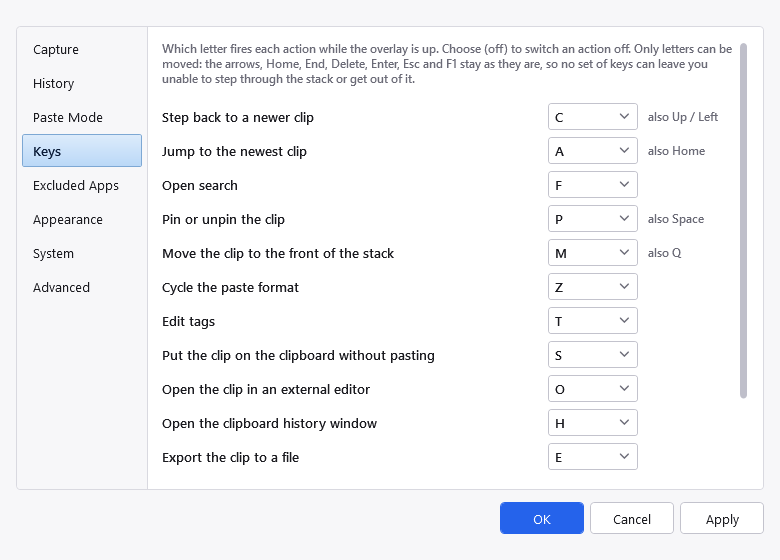
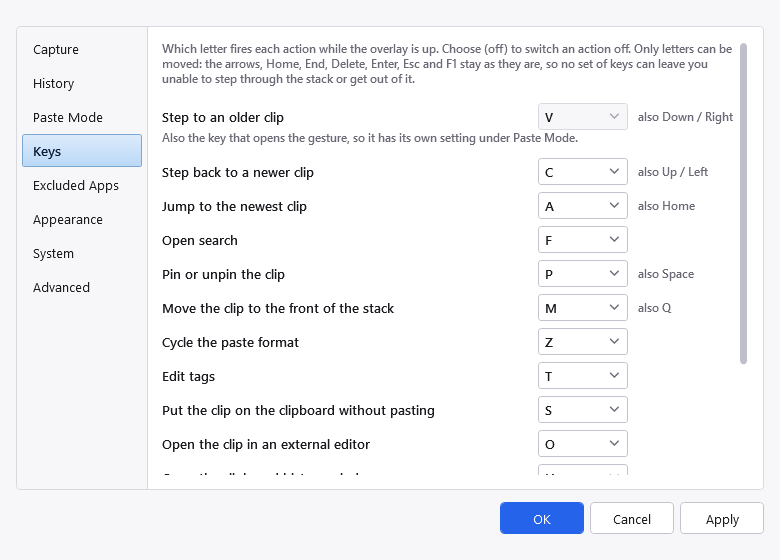
Show the trigger on the Keys tab too, read-only
The Keys tab listed every paste-mode letter except the one the whole product
is built around, which reads as an omission rather than as the deliberate
exclusion it was. V now heads the list, greyed out, with "also Down / Right"
beside it and a line saying where it is actually set.

Still not editable here, and still not part of PasteKeyMap: the trigger is
the one key that OPENS a session rather than acting inside one, so it has its
own setting under Paste Mode - which is itself disabled in this release. Same
reasoning that keeps that combo visible-but-disabled rather than hidden: it
shows what the gesture is, which is worth reading even when it cannot be
changed.

Row building moved into AddPasteKeyRow, shared by the read-only row and the
configurable ones, so the two cannot drift apart visually - a row that looked
different would imply it behaved differently in some way beyond being fixed.

The read-only copy is written in ShowValues rather than left to the trigger
combo's SelectionChanged, so a Reset moves both; SelectionChanged updates it
as well, which costs nothing today and stops the two disagreeing the moment
the trigger becomes editable.

668 tests, 0 warnings, UI smoke clean, screenshot and .chm rebuilt.

Changed region(s): [[0.1846, 0.1821, 0.9538, 0.85], [0.9231, 0.6375, 0.9846, 0.6982]]

diff --git a/docs/help/settings.html b/docs/help/settings.html
@@ -99,6 +99,11 @@ case or Unindent.</td></tr>
 take the letter that opens paste mode &mdash; both are refused when you press OK, with the clash named, rather
 than being resolved for you. Swapping two letters over is fine: the check runs once at the end, not as you type.</p>
 
+<p>The first row, <b>Step to an older clip</b>, is greyed out. That key both opens the gesture and steps through
+it, so it has its own setting under <b>Paste Mode</b> &mdash; and that one is not adjustable in this release. It
+is listed here anyway because a page naming every paste-mode key while omitting the most important one reads as
+an omission.</p>
+
 <p><b>Only letters can be moved.</b> The arrows, <code>Home</code>, <code>End</code>, <code>Delete</code>,
 <code>Enter</code>, <code>Esc</code> and <code>F1</code> stay where they are. That is a safety property rather
 than an omission: no set of keys you choose can leave you unable to step through the stack, and

diff --git a/src/PasteJump.App/Views/SettingsWindow.xaml.cs b/src/PasteJump.App/Views/SettingsWindow.xaml.cs
@@ -307,6 +307,10 @@ public partial class SettingsWindow : Window
 
         TriggerKeyCombo.SelectedItem = TriggerKey.Normalise(source.PasteModeTriggerKey).ToString();
 
+        // The Keys tab shows the trigger too, read-only. Written here rather than left to the combo's own
+        // SelectionChanged, so a Reset moves both.
+        _triggerMirrorCombo.SelectedItem = TriggerKey.Normalise(source.PasteModeTriggerKey).ToString();
+
         // Every combo is written, without exception: a control ShowValues skips keeps its old value through a
         // Reset, which reads as Reset not working. See SettingsInspector's note on the same trap.
         var keyMap = PasteKeyMap.Parse(source.PasteModeKeys);
@@ -457,54 +461,108 @@ public partial class SettingsWindow : Window
     /// makes the state impossible to contradict.
     /// </para>
     /// </summary>
+    /// <summary>
+    /// Shows the trigger letter on this tab as well, read-only.
+    /// <para>
+    /// Not part of <see cref="PasteKeyMap"/> and deliberately not editable here: the trigger is its own setting
+    /// on the Paste Mode tab, because it is the one key that <em>opens</em> a session rather than acting inside
+    /// one, and it is not adjustable in this release. But a tab listing every paste-mode key while omitting the
+    /// most important one reads as an oversight, so it appears here showing what the gesture actually is - the
+    /// same reasoning that keeps the Paste Mode combo visible-but-disabled rather than hidden.
+    /// </para>
+    /// </summary>
+    private ComboBox _triggerMirrorCombo = null!;
+
     private void BuildPasteKeyRows()
     {
+        // First, and read-only. The trigger is what the whole gesture is, so it heads the list even though this
+        // tab cannot change it.
+        _triggerMirrorCombo = AddPasteKeyRow(
+            "Step to an older clip",
+            "also Down / Right",
+            offerOff: false,
+            enabled: false,
+            note: "Also the key that opens the gesture, so it has its own setting under Paste Mode.");
+
         foreach (var entry in PasteKeyMap.Entries)
         {
-            var row = new Grid { Style = (Style)FindResource("SettingRow") };
-            row.ColumnDefinitions.Add(new ColumnDefinition { Width = new GridLength(1, GridUnitType.Star) });
-            row.ColumnDefinitions.Add(new ColumnDefinition { Width = new GridLength(90) });
-            row.ColumnDefinitions.Add(new ColumnDefinition { Width = new GridLength(100) });
-
-            var label = new TextBlock { Text = entry.Description };
-            Grid.SetColumn(label, 0);
-            row.Children.Add(label);
-
-            var combo = new ComboBox();
-            combo.Items.Add(KeyOffLabel);
-
-            // Every letter is offered, not only the free ones: a swap - moving tags from T to S and the
-            // clipboard from S to T - is a perfectly reasonable thing to want, and it passes through an
-            // intermediate state where two actions share a letter. Refusing at the combo would make that
-            // impossible to type, so the clash is caught by PasteKeyMap.Validate on OK instead, where it can
-            // name both actions.
-            for (var letter = 'A'; letter <= 'Z'; letter++)
-            {
-                combo.Items.Add(letter.ToString());
-            }
-
-            Grid.SetColumn(combo, 1);
-            row.Children.Add(combo);
-            _pasteKeyCombos[entry.Name] = combo;
-
-            // The fixed alias, shown read-only. It is what makes switching a letter off safe rather than
-            // lossy: turn pin off and Space still pins.
-            if (entry.FixedAlias is { } alias)
-            {
-                var aliasText = new TextBlock
-                {
-                    Text = "also " + alias,
-                    Style = (Style)FindResource("SettingHelp"),
-                    Margin = new Thickness(10, 0, 0, 0),
-                    VerticalAlignment = VerticalAlignment.Center,
-                };
-
-                Grid.SetColumn(aliasText, 2);
-                row.Children.Add(aliasText);
-            }
-
-            PasteKeyRows.Children.Add(row);
+            _pasteKeyCombos[entry.Name] = AddPasteKeyRow(
+                entry.Description,
+                entry.FixedAlias is { } alias ? "also " + alias : null);
         }
+    }
+
+    /// <summary>
+    /// One row: a description, a letter combo, and the read-only note about whatever else fires the action.
+    /// <para>
+    /// Shared by the configurable rows and the trigger's read-only one so the two cannot drift apart visually -
+    /// a row that looked different would suggest it behaved differently in some way other than being fixed.
+    /// </para>
+    /// </summary>
+    private ComboBox AddPasteKeyRow(
+        string description,
+        string? alias,
+        bool offerOff = true,
+        bool enabled = true,
+        string? note = null)
+    {
+        var row = new Grid { Style = (Style)FindResource("SettingRow") };
+        row.ColumnDefinitions.Add(new ColumnDefinition { Width = new GridLength(1, GridUnitType.Star) });
+        row.ColumnDefinitions.Add(new ColumnDefinition { Width = new GridLength(90) });
+        row.ColumnDefinitions.Add(new ColumnDefinition { Width = new GridLength(110) });
+
+        var label = new TextBlock { Text = description };
+        Grid.SetColumn(label, 0);
+        row.Children.Add(label);
+
+        var combo = new ComboBox { IsEnabled = enabled };
+
+        if (offerOff)
+        {
+            combo.Items.Add(KeyOffLabel);
+        }
+
+        // Every letter is offered, not only the free ones: a swap - moving tags from T to S and the clipboard
+        // from S to T - is a perfectly reasonable thing to want, and it passes through an intermediate state
+        // where two actions share a letter. Refusing at the combo would make that impossible to type, so the
+        // clash is caught by PasteKeyMap.Validate on OK instead, where it can name both actions.
+        for (var letter = 'A'; letter <= 'Z'; letter++)
+        {
+            combo.Items.Add(letter.ToString());
+        }
+
+        Grid.SetColumn(combo, 1);
+        row.Children.Add(combo);
+
+        // What fires the action regardless of the letter. This is what makes switching a letter off safe rather
+        // than lossy: turn pin off and Space still pins.
+        if (alias is not null)
+        {
+            var aliasText = new TextBlock
+            {
+                Text = alias,
+                Style = (Style)FindResource("SettingHelp"),
+                Margin = new Thickness(10, 0, 0, 0),
+                VerticalAlignment = VerticalAlignment.Center,
+            };
+
+            Grid.SetColumn(aliasText, 2);
+            row.Children.Add(aliasText);
+        }
+
+        PasteKeyRows.Children.Add(row);
+
+        if (note is not null)
+        {
+            PasteKeyRows.Children.Add(new TextBlock
+            {
+                Text = note,
+                Style = (Style)FindResource("SettingHelp"),
+                Margin = new Thickness(0, 0, 0, 6),
+            });
+        }
+
+        return combo;
     }
 
     /// <summary>Reads the Keys tab into the shape <see cref="PasteKeyMap"/> validates and builds from.</summary>
@@ -558,6 +616,13 @@ public partial class SettingsWindow : Window
     private void OnTriggerKeyChanged(object sender, SelectionChangedEventArgs e)
     {
         var key = TriggerKey.Normalise(TriggerKeyCombo.SelectedItem as string);
+
+        // Kept in step with the read-only copy on the Keys tab. Costs nothing today, since the trigger combo is
+        // disabled in this release, and stops the two disagreeing the moment it is enabled.
+        if (_triggerMirrorCombo is not null)
+        {
+            _triggerMirrorCombo.SelectedItem = key.ToString();
+        }
 
         TriggerKeyHintText.Text = key == TriggerKey.Default
             ? $"{TriggerKey.Describe(key)} opens paste mode, and tapping {key} again steps further back."
